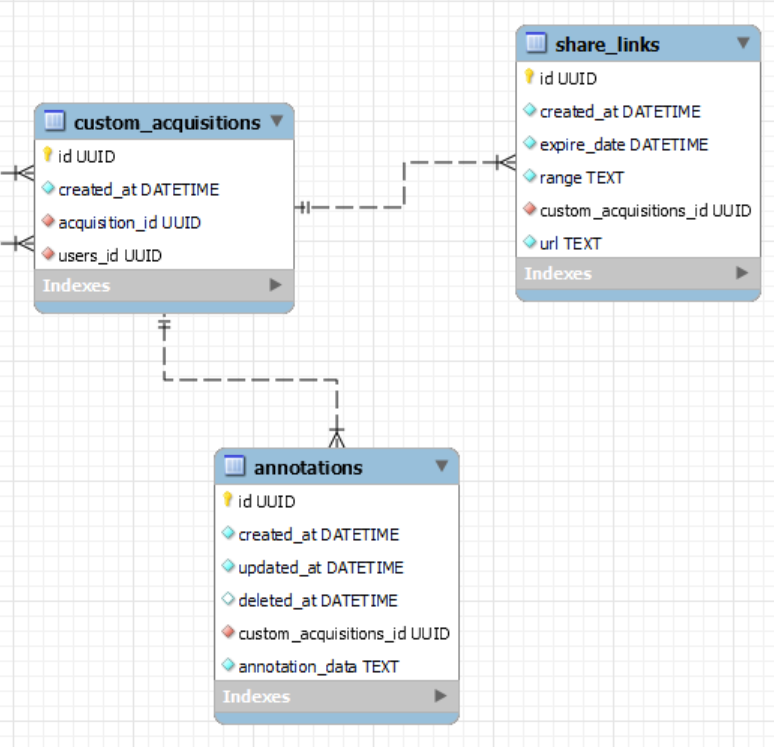
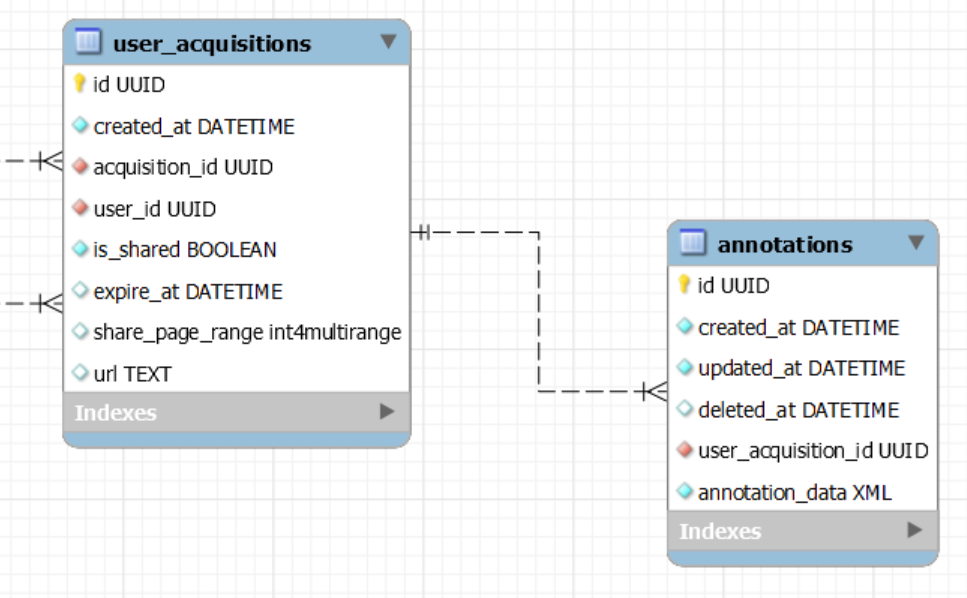
TP2022T16-76 updated db changes

diff --git a/docs/specification/database/database_changes.md b/docs/specification/database/database_changes.md
@@ -1,9 +1,11 @@
 # Potrebné zmeny v databázovom modeli
 
-Do databázového modelu je potrebné pridať 3 tabuľky: **custom_acquisitions**, **annotations** a **share_links**.
+Do databázového modelu je potrebné pridať 2 tabuľky: **user_acquisitions** a **annotations**
 
-Záznamy v tabuľke **custom_acquisitions** predstavujú páry cudzích kľúčov **user_id** a **acquisition_id**.
+Záznamy v tabuľke **user_acquisitions** predstavujú páry cudzích kľúčov **user_id** a **acquisition_id**. Taktiež nesú flag **is_shared** a **share_page_range** pre určenie rozsahu strán, ktoré sú zdieľané.
 
-Tabuľka **annatations** je bližšie popísaná v dokumente [Anotačná vrstva](annotation_db_mode..md) a tabuľka **share_links** je popísanná v dokumente [Databázový model pre zdieľanie dokumentu](./document_sharing_database_model.md).
+Tabuľka **annatations** je bližšie popísaná v dokumente [Anotačná vrstva](annotation_db_mode..md).
 
 ![Časť databázového modelu zachytávajúceho zmeny v databáze](@site/static/img/db_changes.png)
+
+*Autor: Róbert Szabó*
